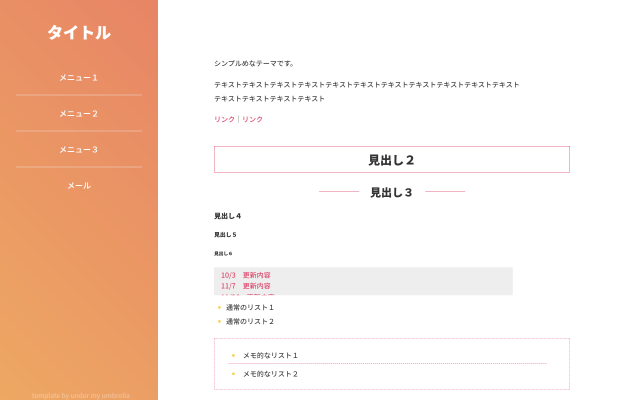
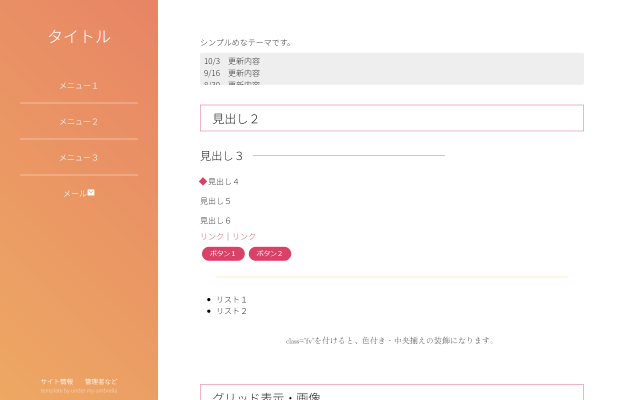
06箱公開、更新履歴詳細ページ追加、CSS調整

diff --git a/template/note.html b/template/note.html
@@ -1,0 +1,69 @@
+<!DOCTYPE html>
+
+<html lang="ja">
+    <head>
+        <meta charset="utf-8" />
+        <meta name="discription" content="個人向けのHTMLテンプレートを配布しています。" />
+        <meta name="viewport" content="width=device-width, initial-scale=1" />
+        <meta name="robots" content="noindex,nofollow,noarchive" />
+
+        <link rel="preconnect" href="https://fonts.googleapis.com" />
+        <link rel="preconnect" href="https://fonts.gstatic.com" crossorigin />
+        <link
+            href="https://fonts.googleapis.com/css2?family=Capriola&family=Zen+Maru+Gothic:wght@400;700&display=swap"
+            rel="stylesheet"
+        />
+
+        <link href="style.css?20240919" rel="stylesheet" />
+
+        <title>傘の下-履歴 | HTMLテンプレート配布</title>
+    </head>
+
+    <body>
+        <div class="main-view">
+            <div class="curved"></div>
+            <div id="site-info">
+                <h1>更新履歴</h1>
+                <p><span class="bbbrrr">更新履歴など</span></p>
+            </div>
+
+            <nav>
+                <ul>
+                    <li><a href="index.html">トップに戻る</a></li>
+                </ul>
+            </nav>
+
+            <main>
+                <section id="log">
+                    <h2>履歴</h2>
+                    <dl>
+                        <dt id="20240919">9/19</dt>
+                        <dd>
+                            テンプレート01「シンプル」を差し替えました。
+                            <hr />
+                            １．見た目と中身をちょっと整頓しました。主に著作権表示とCSSだけの変更ですが、メニュー周りは以前と互換性がありません（HTML側の<mark>bodyの最初～mainの前まで</mark>）。テンプレートの更新時はHTML/CSS両方を差し替えてください。
+                            <hr />
+                            ２．ギャラリー向けのモーダルウィンドウ表示を組み込みました。せっかくなので、他のテンプレートにもたぶん追加します。
+                        </dd>
+                        <dt id="20240918">9/18</dt>
+                        <dd>
+                            禁止行為に「著作権表示の削除」があったのですが、うっかり著作権表示のないテンプレートがありました。本当にすみません。なので、テンプレートの不足部分を差し替えた上で、規約の該当項目は削除します。
+                            <hr />
+                            これらの変更によるご利用中テンプレートの差し替えなどは必要ありません。表示なしが気になる方は当サイトへのリンクなどに替えてください（任意です）。<br />
+                        </dd>
+                        <dt><span class="bbbrrr">2024/</span>9/18</dt>
+                        <dd>
+                            履歴ページを新設。<br />そんなに使うかは分かりませんが、長文などでトップページの更新履歴に入りきらないときはこちらに記載します。
+                        </dd>
+                    </dl>
+                </section>
+
+                <footer>
+                    <ul>
+                        <li>©2024- under my umbrella/傘の下 - 倉林</li>
+                    </ul>
+                </footer>
+            </main>
+        </div>
+    </body>
+</html>

diff --git a/template/index.html b/template/index.html
@@ -12,7 +12,7 @@
             rel="stylesheet"
         />
 
-        <link href="style.css?20240907" rel="stylesheet" />
+        <link href="style.css?20240919" rel="stylesheet" />
 
         <title>傘の下 | HTMLテンプレート配布</title>
     </head>
@@ -46,14 +46,25 @@
                     <br />なお、技術面のサポートは行っていません。動作確認はwindows11/chromeのみです。
                 </p>
 
-                <ul id="update">
-                    <li><time>9/14</time>テンプレート「道」公開</li>
-                    <li><time>9/7</time>テンプレート「ラズベリー」公開</li>
-                    <li><time>8/30</time>「海と空」img周りの表示を修正</li>
-                    <li><time>8/30</time>サイト開設、テンプレート「シンプル」「付箋」「海と空」公開</li>
-                    <!--<li><time>8/26</time>サイト作成</li>-->
-                    <li><time></time></li>
-                </ul>
+                <div>
+                    <ul id="update">
+                        <li>
+                            <time>9/19</time>テンプレート「四角」公開、「シンプル」を差し替え　<a
+                                href="note.html#20240919"
+                                >&gt;&gt; 詳細</a
+                            >
+                        </li>
+                        <li><time>9/18</time>更新履歴の詳細ページを新設</li>
+                        <li><time>9/14</time>テンプレート「道」公開</li>
+                        <li><time>9/7</time>テンプレート「ラズベリー」公開</li>
+                        <li><time>8/30</time>「海と空」img周りの表示を修正</li>
+                        <li><time>8/30</time>サイト開設、テンプレート「シンプル」「付箋」「海と空」公開</li>
+                        <!--<li><time>8/26</time>サイト作成</li>-->
+                        <!--    <a href="note.html#">&gt;&gt; 詳細</a>    -->
+                        <li><time></time></li>
+                    </ul>
+                    <p id="update-jump"><a href="note.html">&gt;&gt; 更新履歴詳細</a></p>
+                </div>
             </section>
 
             <section id="s-1">
@@ -72,7 +83,7 @@
                     <li id="term">ファイル内容の編集・カスタムはご自由にどうぞ。</li>
                     <li id="term">予告なく内容を変更したり、細々手入れをしたりすることがあります。</li>
                     <li id="taboo">
-                        禁止：テンプレートの再配布、著作権表示の削除、画像類の直リンク、法や公序良俗に反するサイトでの使用、ほか良識のグレーゾーンを故意に狙う用途
+                        禁止：テンプレートの再配布、画像類の直リンク、法や公序良俗に反するサイトでの使用、ほか良識のグレーゾーンを故意に狙う用途
                     </li>
                     <li id="taboo">当サイト配布物を使用したことによる損害には一切の責任を負いません。</li>
                 </ul>
@@ -105,6 +116,6 @@
                 </ul>
             </footer>
         </main>
-        <script src="script.js?20240914"></script>
+        <script src="script.js?20240919"></script>
     </body>
 </html>

diff --git a/template/style.css b/template/style.css
@@ -7,7 +7,7 @@
 *------------------------------------------------------ */
 
 :root {
-    --onepoint: #ec4899;
+    --onepoint: #ebdbdb;
     --body-bg: #fbf5ee;
     --table-color: #ffffff;
     --text-color: #222;
@@ -28,17 +28,7 @@ body {
     color: var(--text-color);
 }
 
-h1,
-h2,
-h3,
-h4,
-h5,
-img,
-p,
-ul,
-table,
-th,
-td {
+* {
     margin: 0;
     padding: 0;
 }
@@ -74,6 +64,10 @@ img {
     width: 100%;
 }
 
+mark {
+    background-color: rgb(255, 255, 255, 0);
+    background-image: linear-gradient(rgba(0, 0, 0, 0) 60%, var(--onepoint) 60%);
+}
 /*---------------------*/
 
 main {
@@ -160,6 +154,7 @@ nav > ul > li > a {
 h2 {
     position: relative;
     margin: 0 0 16px;
+    padding: 0 8px;
 }
 
 h2::after {
@@ -198,13 +193,13 @@ section {
     overflow-y: scroll;
     list-style: none;
 
-    font-family: inherit;
-
     width: 90%;
-    height: 4em;
+    height: 80px;
     margin: 16px auto;
     padding: 0 16px;
+    box-sizing: border-box;
 
+    font-family: inherit;
     line-height: 1em;
     border-radius: 8px;
     border: 1px solid var(--text-color);
@@ -221,6 +216,25 @@ section {
 
 time {
     padding-right: 1em;
+}
+
+div:has(#update) {
+    position: relative;
+}
+
+#update-jump {
+    display: inline-block;
+    position: absolute;
+    bottom: -4px;
+    right: 48px;
+    z-index: 50;
+
+    margin: 0;
+    padding: 0 8px;
+    line-height: 1em;
+
+    font-size: smaller;
+    background-color: var(--body-bg);
 }
 
 #term,
@@ -268,6 +282,7 @@ time {
     left: 16px;
 
     font-size: 1.5em;
+    text-shadow: #fff 0 0 5px;
 }
 
 .button-area {
@@ -356,6 +371,39 @@ dd:has(.banner) {
     height: 40px;
 
     text-align: left;
+}
+
+#log {
+    margin: 0;
+    padding: 0 0 56px;
+}
+
+#log dl {
+    margin: 64px 0 0;
+}
+
+#log dt {
+    margin: 4px 0;
+    padding: 8px 0;
+    padding-right: 8px;
+    width: 15%;
+
+    text-align: right;
+
+    background-color: rgba(0, 0, 0, 0);
+    color: var(--text-color);
+}
+
+#log dd {
+    margin: 4px 0;
+    padding: 8px;
+    width: 75%;
+}
+
+#log hr {
+    margin: 4px 0;
+    width: 50%;
+    border: none;
 }
 
 /*------------------------------------------------------ */
@@ -471,3 +519,19 @@ dd:has(.banner) {
         opacity: 0.5;
     }
 } /*@media*/
+
+@media screen and (max-width: 1080px) {
+    .main-view {
+        position: relative;
+        min-height: 100vh;
+    }
+
+    .main-view footer {
+        position: absolute;
+        bottom: 0;
+        left: 0;
+        width: 100%;
+
+        box-sizing: border-box;
+    }
+}

diff --git a/template/script.js b/template/script.js
@@ -7,6 +7,7 @@ const temp = [
     { name: '03 海と空', file: '03seaandsky' },
     { name: '04 ラズベリー', file: '04raspberry' },
     { name: '05 道', file: '05load' },
+    { name: '06 四角', file: '06square' },
 ];
 
 const materialLink = [{ name: 'jay mantri', file: 'https://jaymantri.com/' }];
